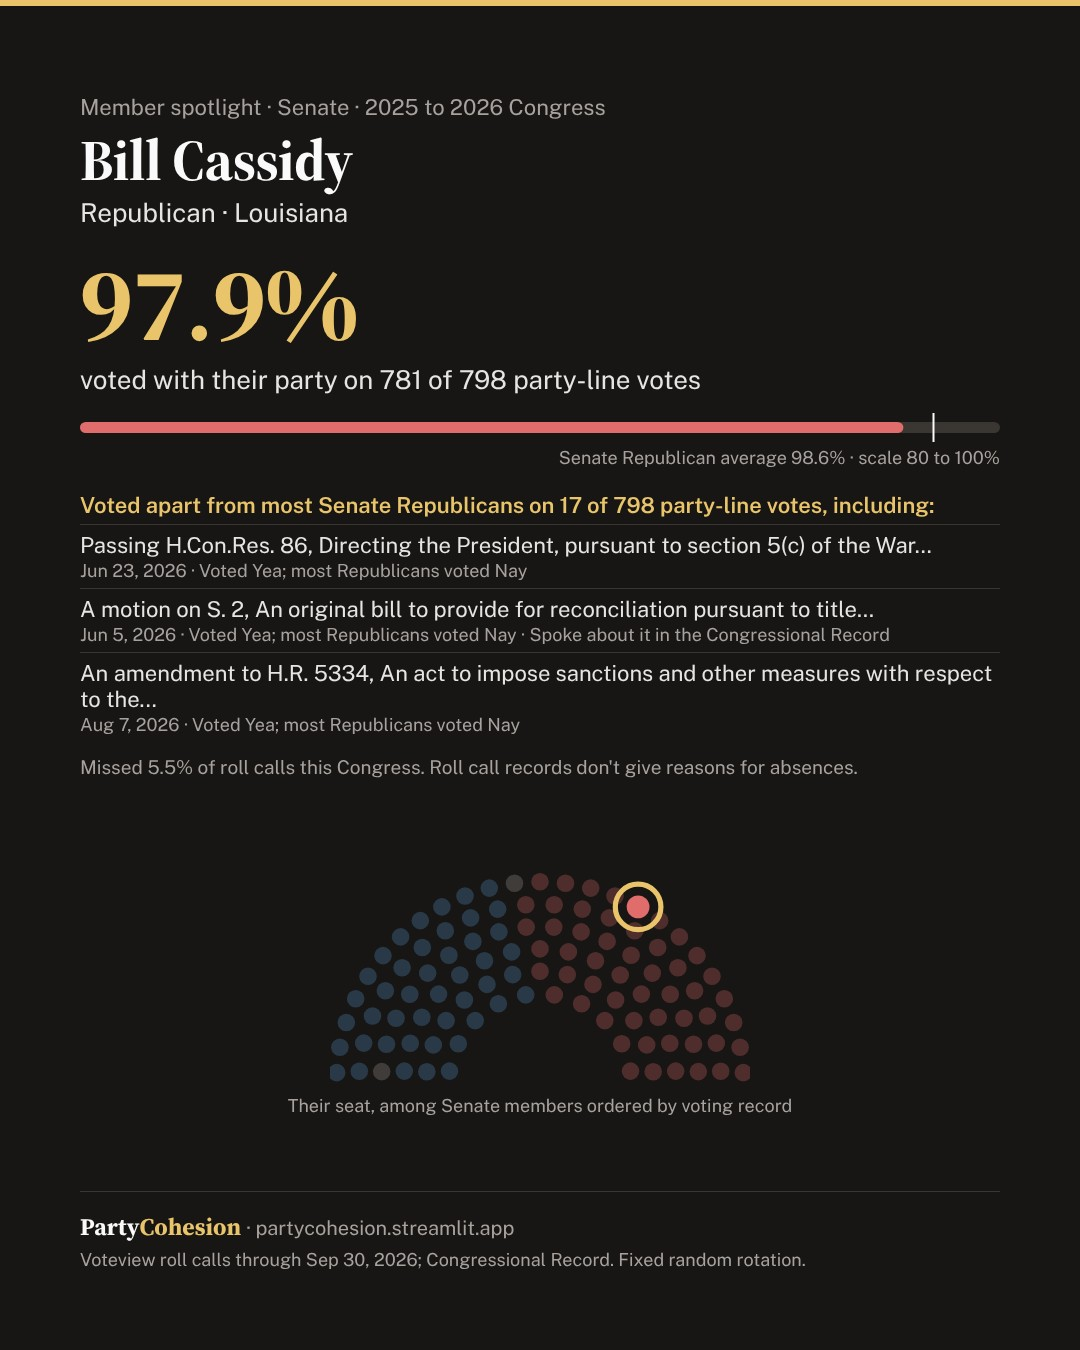
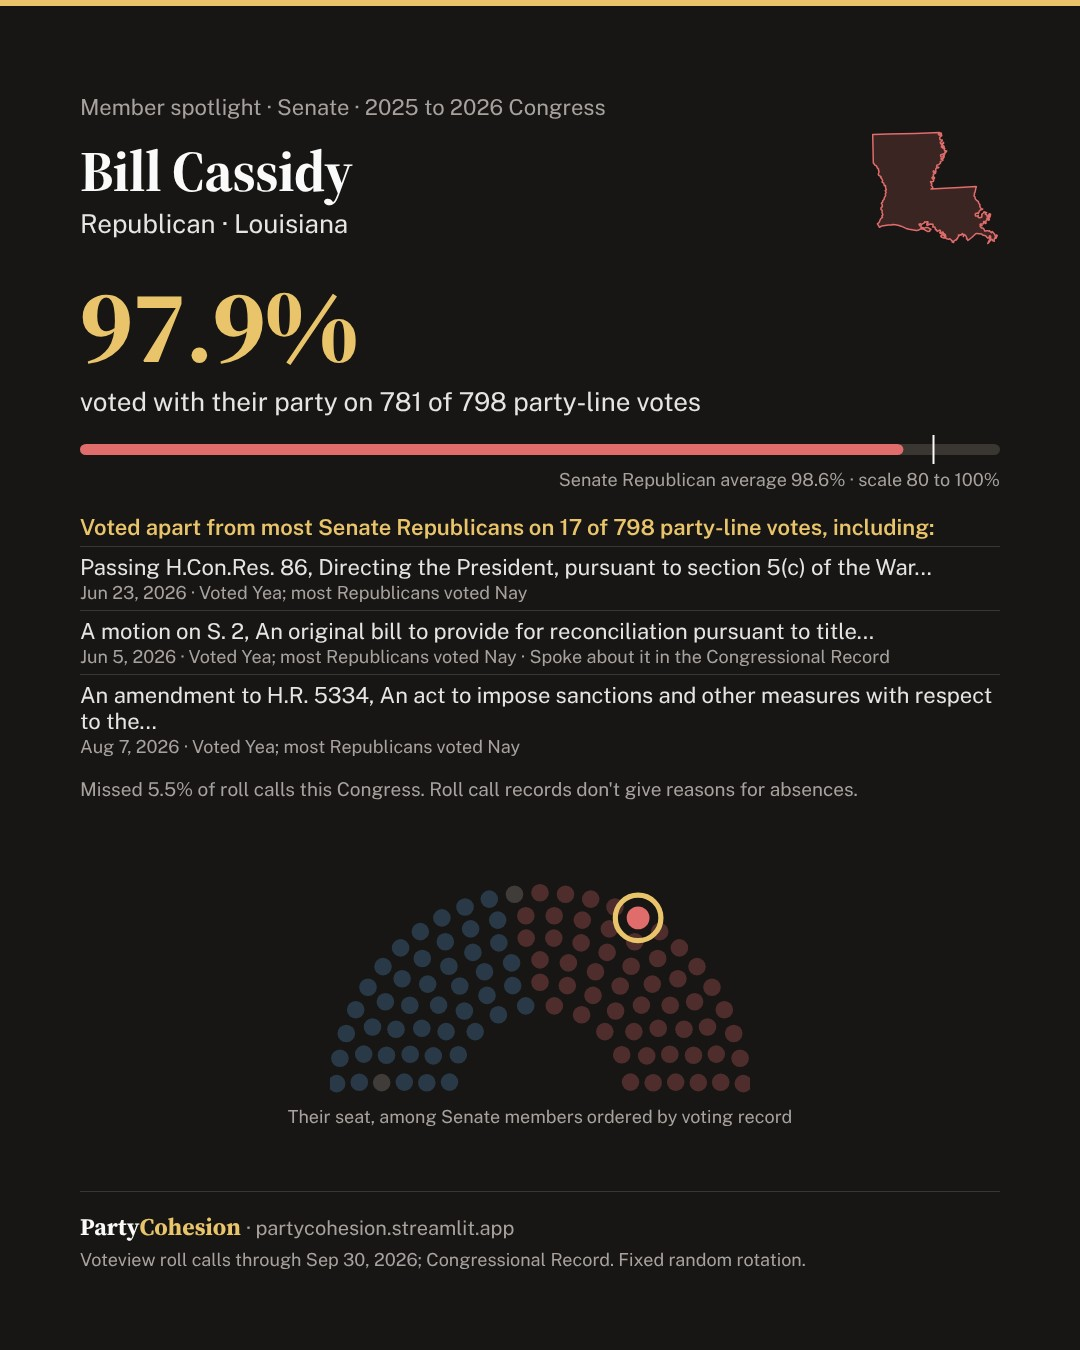
Spotlight cards: add an outline of the member's state
Each spotlight card now shows the member's state as a plain outline in
their party's color, next to their name. The shapes are in
data/state_shapes.json, built once by scripts/build_state_shapes.py from
us-atlas, which comes from Census Bureau boundary files (public domain).
Still no photos of members.

Re-renders the nine cards already built so queued posts get the outline;
captions are unchanged, alt text now mentions the outline.

Claude-Session: https://claude.ai/code/session_012iwEuT7JbTG1uJX85Q1SB4

Changed region(s): [[0.0611, 0.0933, 0.9472, 0.5911], [0.275, 0.6222, 0.7333, 0.84], [0.7944, 0.0933, 0.9167, 0.1867]]

diff --git a/scripts/member_spotlights.py b/scripts/member_spotlights.py
@@ -8,7 +8,8 @@ is singled out. See spotlight_order().
   python scripts/member_spotlights.py --bioguide R000575  render one member
 
 Images use the same style as scripts/make_social_cards.py. No photos of members: the highlighted seat on the
-chamber map is the visual.
+chamber map and an outline of the member's state (data/state_shapes.json, from scripts/build_state_shapes.py) are
+the visuals.
 """
 
 from __future__ import annotations
@@ -292,6 +293,25 @@ def seat_svg(d: dict, s: dict, width: int) -> str:
     return f'<svg width="{width}" height="{h:.0f}" viewBox="0 0 {width} {h:.0f}">{"".join(out)}</svg>'
 
 
+STATE_SHAPES = ROOT / "data" / "state_shapes.json"
+
+
+def state_svg(abbrev: str, party: str, size: int) -> str:
+    """The member's state as a plain outline in their party's color, fit in a size by size box. Empty if there is no
+    shape (territories)."""
+    import json
+    shapes = json.loads(STATE_SHAPES.read_text()) if STATE_SHAPES.exists() else {}
+    sh = shapes.get(abbrev)
+    if not sh:
+        return ""
+    color = mc.PARTY.get(party, mc.C["ind"])
+    w, h = sh["w"] * size / 100, sh["h"] * size / 100
+    return (f'<svg width="{w:.0f}" height="{h:.0f}" viewBox="-2 -2 {sh["w"] + 4} {sh["h"] + 4}" role="img" '
+            f'aria-label="Outline of {escape(STATES.get(abbrev, abbrev))}">'
+            f'<path d="{sh["d"]}" fill="{color}" fill-opacity="0.18" stroke="{color}" stroke-width="1.5" '
+            f'stroke-linejoin="round" vector-effect="non-scaling-stroke"/></svg>')
+
+
 ADJ = {"Democrat": "Democratic", "Republican": "Republican", "Independent": "Independent"}
 
 
@@ -376,8 +396,10 @@ def card(d: dict, s: dict, size: str) -> str:
 <div style="display:flex;gap:36px">
   <div style="flex:1.15">
     <div class="muted" style="font-size:17px">{escape(label)}</div>
-    <h1 style="font-size:42px;line-height:1.05;margin-top:6px">{escape(s['name'])}</h1>
-    <div class="body" style="font-size:19px;margin-top:4px">{escape(who)}</div>
+    <div style="display:flex;align-items:center;gap:22px;margin-top:6px">
+      <div><h1 style="font-size:42px;line-height:1.05">{escape(s['name'])}</h1>
+      <div class="body" style="font-size:19px;margin-top:4px">{escape(who)}</div></div>
+      <div style="flex:none">{state_svg(s['abbrev'], s['row']['party'], 84)}</div></div>
     <div style="display:flex;align-items:baseline;gap:14px;margin-top:12px">
       <div class="accent" style="font-family:'Source Serif 4';font-weight:700;font-size:62px;line-height:1">{big}</div>
       <div class="body" style="font-size:17px;line-height:1.35;max-width:300px">{escape(line)}</div></div>
@@ -390,8 +412,10 @@ def card(d: dict, s: dict, size: str) -> str:
     else:
         body = f"""
 <div class="muted" style="font-size:22px;margin-top:8px">{escape(label)}</div>
-<h1 style="font-size:58px;line-height:1.05;margin-top:10px">{escape(s['name'])}</h1>
-<div class="body" style="font-size:26px;margin-top:6px">{escape(who)}</div>
+<div style="display:flex;align-items:center;justify-content:space-between;gap:24px;margin-top:10px">
+<div><h1 style="font-size:58px;line-height:1.05">{escape(s['name'])}</h1>
+<div class="body" style="font-size:26px;margin-top:6px">{escape(who)}</div></div>
+<div style="flex:none">{state_svg(s['abbrev'], s['row']['party'], 130)}</div></div>
 <div class="accent" style="font-family:'Source Serif 4';font-weight:700;font-size:104px;line-height:1;margin-top:24px">{big}</div>
 <div class="body" style="font-size:26px;line-height:1.35;margin-top:6px">{escape(line)}</div>
 <div style="margin-top:16px">{compare_bar(s, 920, 22)}</div>
@@ -440,7 +464,7 @@ def alt_text(d: dict, s: dict) -> str:
             f"{a['what']}, {a['date']}, voted {a['vote']} while most {a['plural']} voted {a['party_vote']}" for a in lines) + ".")
     if missed_line(s):
         parts.append(missed_line(s))
-    parts.append(f"A half-circle chart of the {s['chamber']} with their seat circled.")
+    parts.append(f"An outline of {s['state']}, and a half-circle chart of the {s['chamber']} with their seat circled.")
     return " ".join(parts)
 
 

diff --git a/scripts/build_state_shapes.py b/scripts/build_state_shapes.py
@@ -1,0 +1,86 @@
+"""Build data/state_shapes.json: one simple SVG outline per state, for the member spotlight cards.
+
+The shapes come from us-atlas (states-albers-10m.json), which is built from the U.S. Census Bureau's cartographic
+boundary files (public domain). Run once; the output is committed.
+
+  npm install us-atlas@3
+  python scripts/build_state_shapes.py node_modules/us-atlas/states-albers-10m.json
+
+Each outline is scaled to fit a 100 by 100 box with its proportions kept, and small islands are dropped so the
+silhouette stays readable at card size.
+"""
+from __future__ import annotations
+
+import json
+import sys
+from pathlib import Path
+
+ROOT = Path(__file__).resolve().parents[1]
+sys.path.insert(0, str(ROOT))
+from ui import STATES  # noqa: E402
+
+OUT = ROOT / "data" / "state_shapes.json"
+BOX = 100.0
+MIN_SHARE = 0.002  # drop rings smaller than this share of the state's largest ring (tiny islands)
+
+
+def decode_arcs(topo: dict) -> list[list[tuple[float, float]]]:
+    (sx, sy), (tx, ty) = topo["transform"]["scale"], topo["transform"]["translate"]
+    arcs = []
+    for arc in topo["arcs"]:
+        x = y = 0
+        pts = []
+        for dx, dy in arc:
+            x, y = x + dx, y + dy
+            pts.append((x * sx + tx, y * sy + ty))
+        arcs.append(pts)
+    return arcs
+
+
+def ring(arcs: list, ids: list[int]) -> list[tuple[float, float]]:
+    pts: list[tuple[float, float]] = []
+    for i in ids:
+        a = arcs[i] if i >= 0 else arcs[~i][::-1]
+        pts.extend(a if not pts else a[1:])
+    return pts
+
+
+def area(pts: list[tuple[float, float]]) -> float:
+    return abs(sum(x1 * y2 - x2 * y1 for (x1, y1), (x2, y2) in zip(pts, pts[1:] + pts[:1]))) / 2
+
+
+def outline(rings: list[list[tuple[float, float]]]) -> dict:
+    biggest = max(area(r) for r in rings)
+    rings = [r for r in rings if area(r) >= biggest * MIN_SHARE]
+    xs = [x for r in rings for x, _ in r]
+    ys = [y for r in rings for _, y in r]
+    x0, y0 = min(xs), min(ys)
+    k = BOX / max(max(xs) - x0, max(ys) - y0)
+    w, h = (max(xs) - x0) * k, (max(ys) - y0) * k
+    parts = []
+    for r in rings:
+        pts = []
+        for x, y in r:
+            p = (round((x - x0) * k, 1), round((y - y0) * k, 1))
+            if not pts or p != pts[-1]:
+                pts.append(p)
+        if len(pts) >= 4:
+            parts.append("M" + "L".join(f"{x:g},{y:g}" for x, y in pts) + "Z")
+    return {"w": round(w, 1), "h": round(h, 1), "d": "".join(parts)}
+
+
+def main() -> None:
+    topo = json.loads(Path(sys.argv[1]).read_text())
+    arcs = decode_arcs(topo)
+    code = {name: c for c, name in STATES.items()}
+    shapes = {}
+    for g in topo["objects"]["states"]["geometries"]:
+        polys = g["arcs"] if g["type"] == "MultiPolygon" else [g["arcs"]]
+        rings = [ring(arcs, p[0]) for p in polys]  # outer rings only; holes don't matter at this size
+        shapes[code.get(g["properties"]["name"], g["properties"]["name"])] = outline(rings)
+    OUT.write_text(json.dumps(dict(sorted(shapes.items())), separators=(",", ":")) + "\n")
+    print(f"{len(shapes)} states -> {OUT.relative_to(ROOT)} ({OUT.stat().st_size // 1024} KB)")
+
+
+if __name__ == "__main__":
+    main()

diff --git a/tests/test_member_spotlights.py b/tests/test_member_spotlights.py
@@ -116,3 +116,13 @@ def test_final_record_wording():
     assert f"In the {s['latest']}th Congress" in cap and "final record" in cap
     assert "this Congress" not in cap and "current Congress" not in cap
     assert "final record" in ms.card(D, s, "wide")
+
+
+def test_every_state_has_an_outline():
+    import json
+    from ui import STATES
+    shapes = json.loads((ROOT / "data" / "state_shapes.json").read_text())
+    states = {a for a in STATES if len(a) == 2} - {"AS", "GU", "MP", "PR", "VI"}
+    assert states <= set(shapes), states - set(shapes)
+    for a in states:
+        assert shapes[a]["d"].startswith("M") and max(shapes[a]["w"], shapes[a]["h"]) == 100
